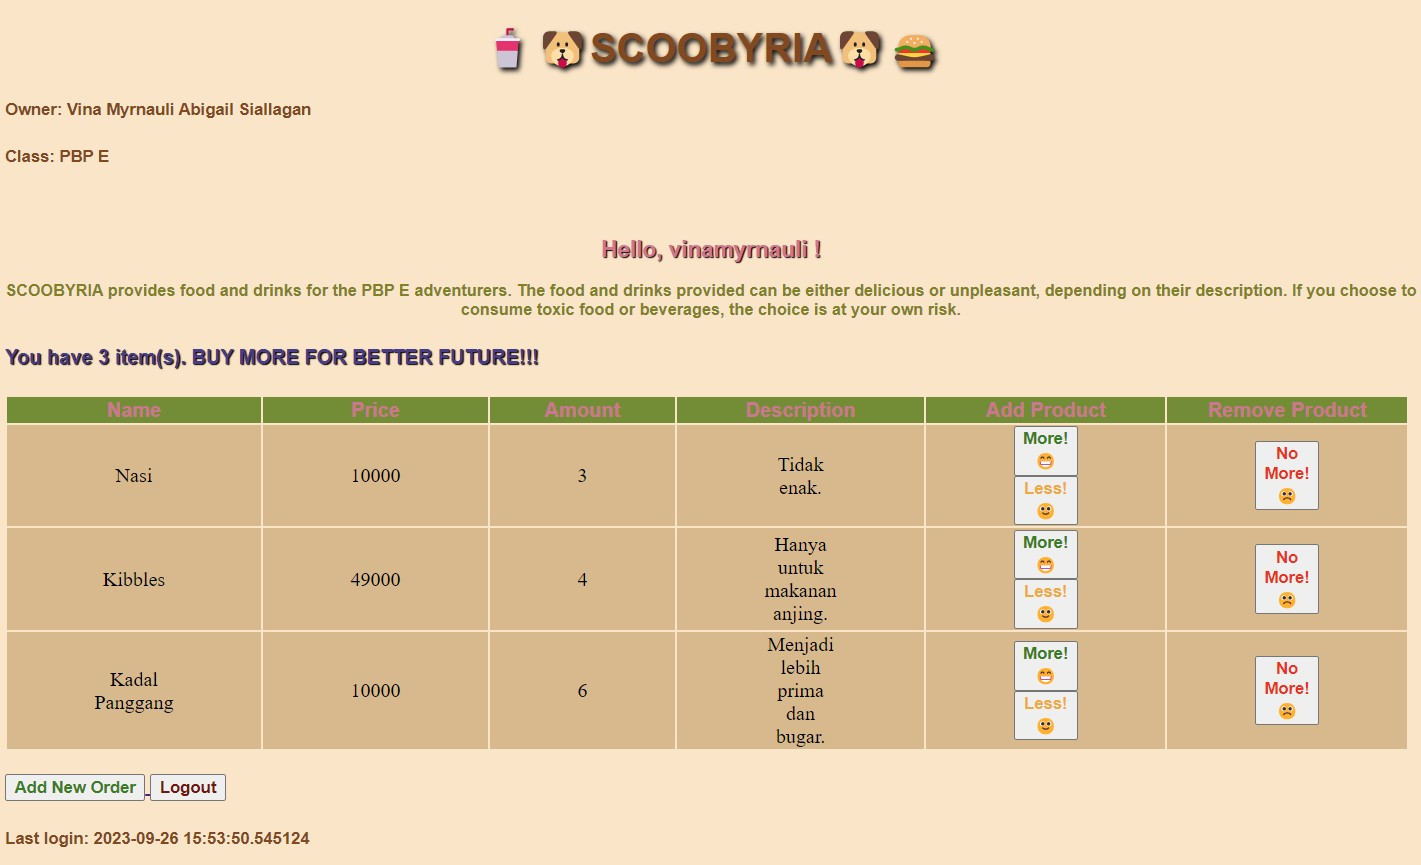
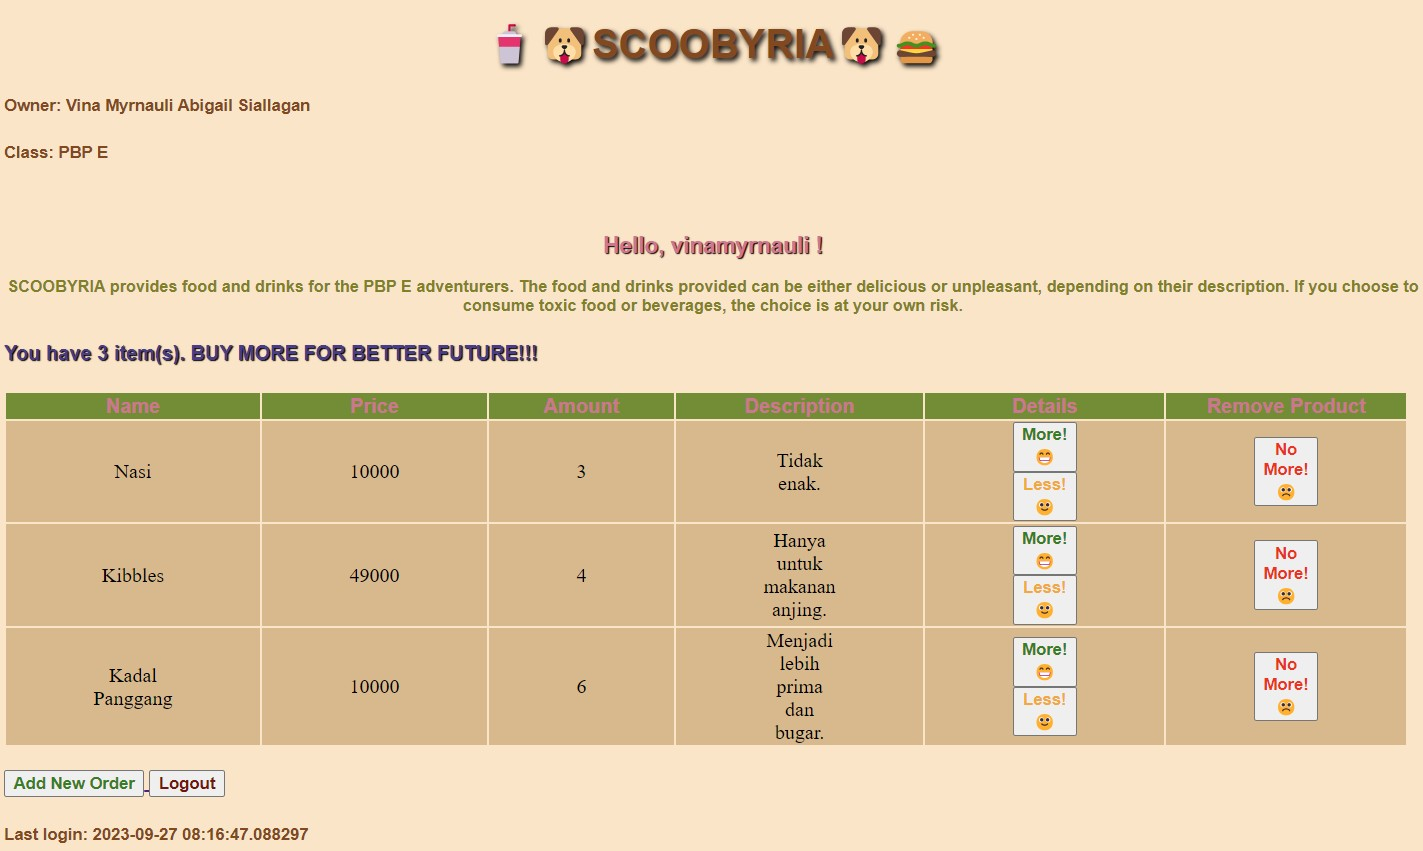
Done Tugas 4 (FIXED)

diff --git a/main/templates/main.html b/main/templates/main.html
@@ -89,7 +89,7 @@
         <th>Price</th>
         <th>Amount</th>
         <th>Description</th>
-        <th>Add Product</th>
+        <th>Details</th>
         <th>Remove Product</th>
     </tr>
 
